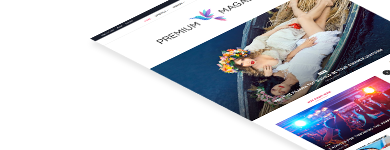
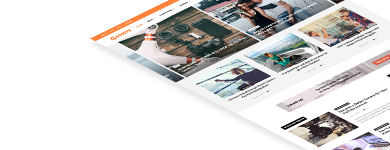
screenshots 4 new demos updated

diff --git a/includes/demos/blog_beauty/demo_style.less b/includes/demos/blog_beauty/demo_style.less
@@ -1,7 +1,7 @@
 @import "../../less_files/variables.less";
 @import "../../less_files/mixin.less";
 
-/* Premium demo */
+/* Blog Beauty Demo */
 .td-ionmag-blog-beauty {
 
   &.td-boxed-layout .td-header-menu-wrap-full.td-container-wrap {
@@ -34,8 +34,10 @@
 
 
 
-  //
+  //header wrap
   .td-header-wrap.td-header-style-pr-3 {
+    background-color: #f1efed;
+
     /* responsive portrait tablet */
     @media (max-width: @responsive_p_phone_max) {
       margin-bottom: 40px;
@@ -52,7 +54,6 @@
       display: none;
     }
   }
-
 
 
 

diff --git a/includes/demos/blog_beauty/demo_style.css b/includes/demos/blog_beauty/demo_style.css
@@ -33,7 +33,7 @@ usage:
 
 @all_span_selector - is the begining of the span selector
  */
-/* Premium demo */
+/* Blog Beauty Demo */
 .td-ionmag-blog-beauty.td-boxed-layout .td-header-menu-wrap-full.td-container-wrap {
   width: 100% !important;
 }
@@ -56,6 +56,7 @@ usage:
   padding: 0;
 }
 .td-ionmag-blog-beauty .td-header-wrap.td-header-style-pr-3 {
+  background-color: #f1efed;
   /* responsive portrait tablet */
 }
 @media (max-width: 767px) {

diff --git a/includes/demos/blog_beauty/td_import.php b/includes/demos/blog_beauty/td_import.php
@@ -54,6 +54,7 @@ td_demo_misc::add_social_buttons(array(
     ads
  */
 td_demo_misc::clear_all_ads();
+
 td_demo_misc::add_ad_image('sidebar', 'td_blog_beauty_sidebar_ad');
 
 
